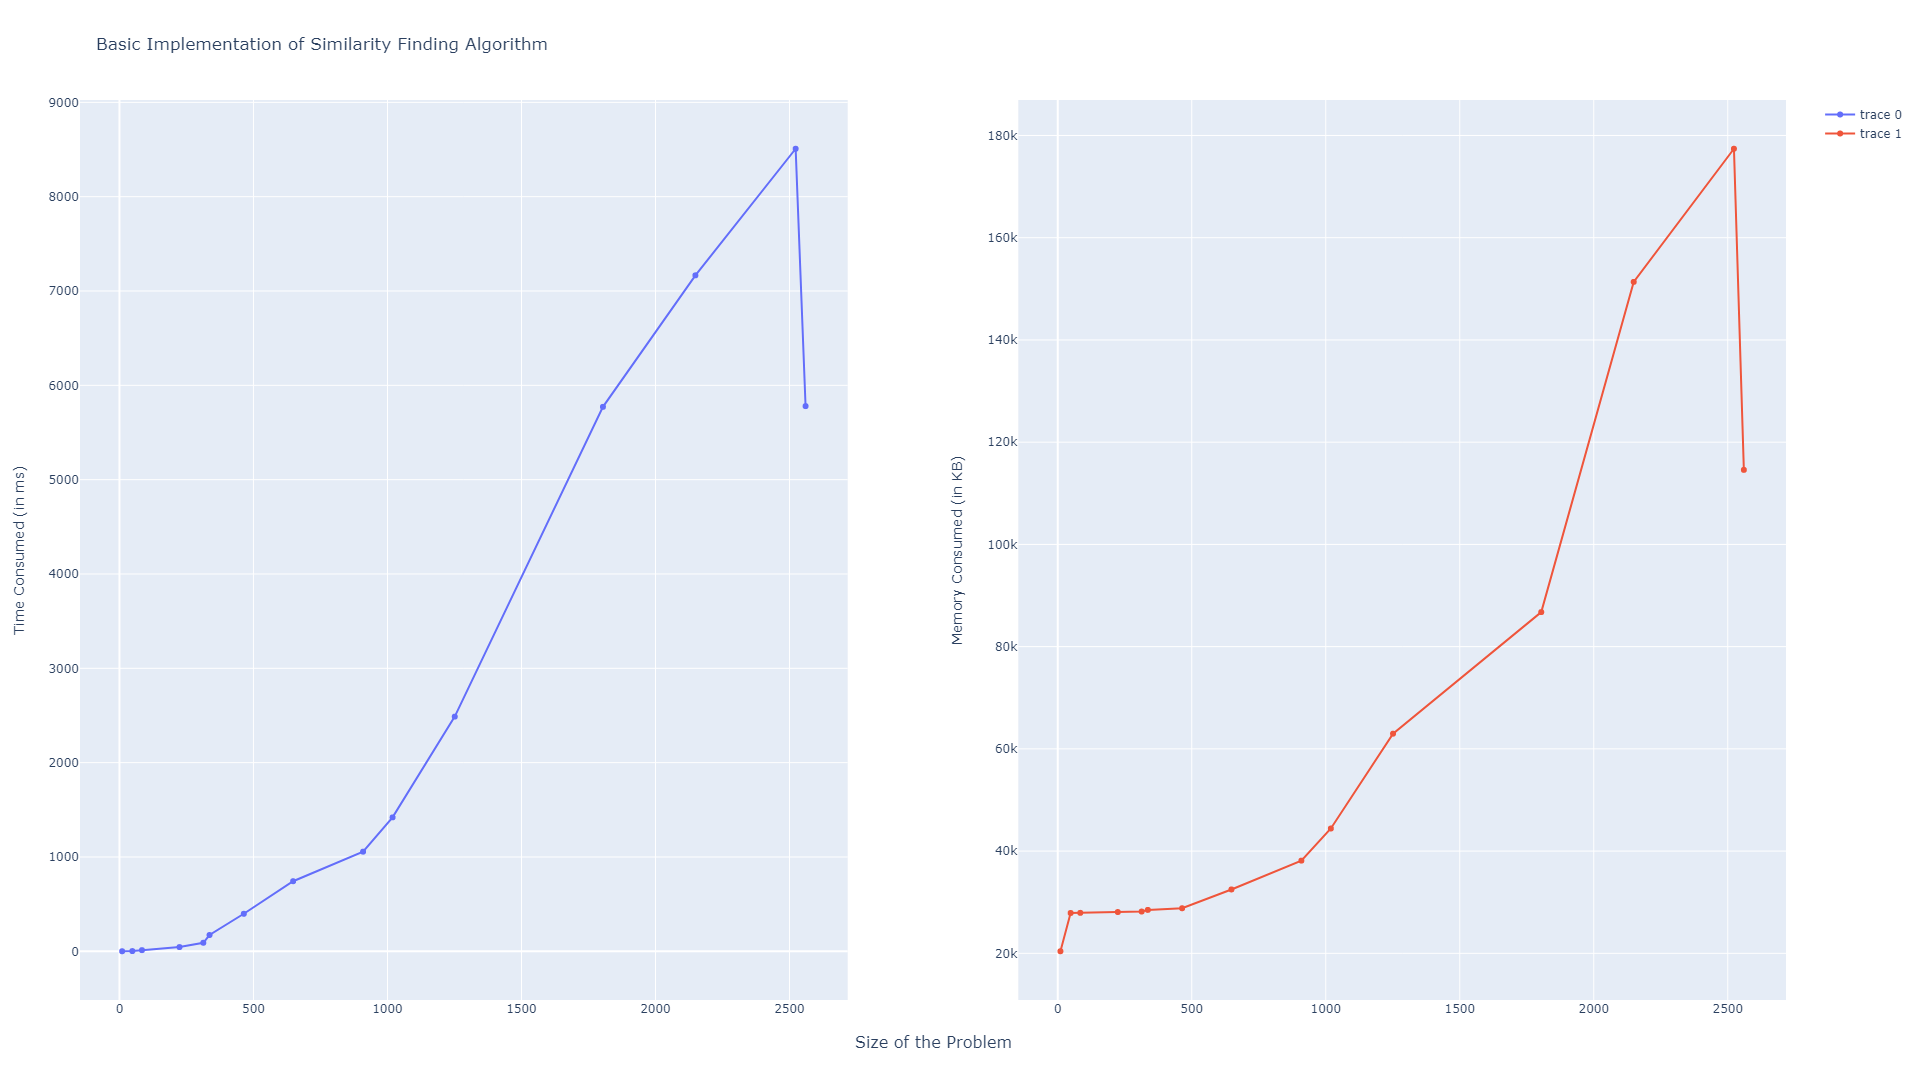
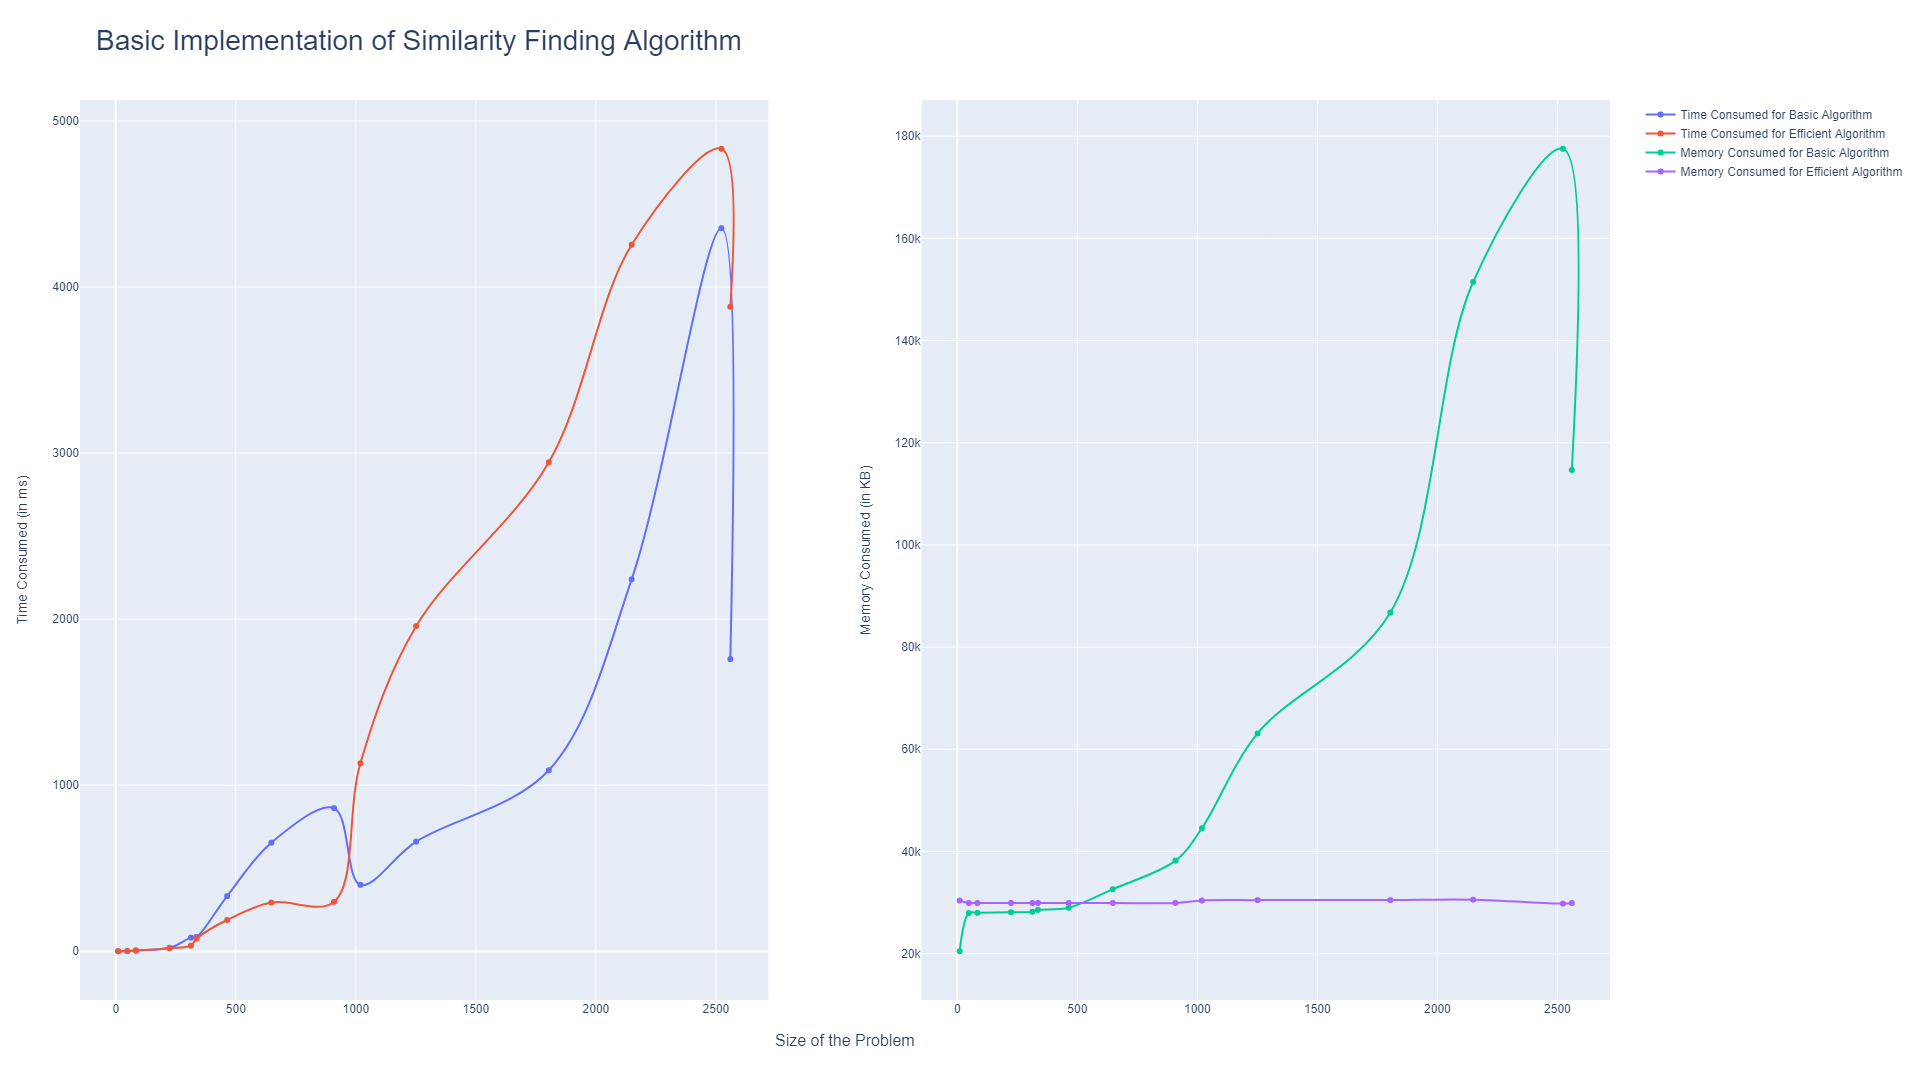
Added efficient algorithm. Added multiple line plots for basic and efficient algorithms.

diff --git a/plotting.py b/plotting.py
@@ -4,34 +4,82 @@ import os.path
 import plotly.graph_objects as go
 from plotly.subplots import make_subplots
 
+import basic
+import efficient
 from util import PlottingData
 
 IMAGE_FOLDER = 'images'
+BENCHMARK = False
 
 
 class Plot:
-    def __init__(self, plotting_data_list):
-        self.problem_sizes = PlottingData.get_all_problem_sizes(plotting_data_list)
-        self.time_consumed = PlottingData.get_all_time_values(plotting_data_list)
-        self.memory_consumed = PlottingData.get_all_memory_consumed(plotting_data_list)
+    def __init__(self, basic_plotting_data_list, efficient_plotting_data_list):
+        self.problem_sizes = PlottingData.get_all_problem_sizes(basic_plotting_data_list)
+        self.basic_time_consumed = PlottingData.get_all_time_values(basic_plotting_data_list)
+        self.basic_memory_consumed = PlottingData.get_all_memory_consumed(basic_plotting_data_list)
+
+        self.efficient_time_consumed = PlottingData.get_all_time_values(efficient_plotting_data_list)
+        self.efficient_memory_consumed = PlottingData.get_all_memory_consumed(efficient_plotting_data_list)
 
     def plot(self, type_of_algorithm='basic'):
         fig = make_subplots(rows=1, cols=2,
                             x_title='Size of the Problem')
 
+        line = {
+            'shape': 'spline',
+            'smoothing': 1.0,
+        }
+
         fig.add_trace(
-            go.Scatter(x=self.problem_sizes, y=self.time_consumed),
+            go.Scatter(x=self.problem_sizes, y=self.basic_time_consumed,
+                       name='Time Consumed for Basic Algorithm',
+                       line=line),
             row=1, col=1
         )
 
         fig.add_trace(
-            go.Scatter(x=self.problem_sizes, y=self.memory_consumed),
+            go.Scatter(x=self.problem_sizes, y=self.efficient_time_consumed,
+                       name='Time Consumed for Efficient Algorithm',
+                       line=line),
+            row=1, col=1
+        )
+
+        fig.add_trace(
+            go.Scatter(x=self.problem_sizes, y=self.basic_memory_consumed,
+                       name='Memory Consumed for Basic Algorithm',
+                       line=line),
+            row=1, col=2
+        )
+
+        fig.add_trace(
+            go.Scatter(x=self.problem_sizes, y=self.efficient_memory_consumed,
+                       name='Memory Consumed for Efficient Algorithm',
+                       line=line),
             row=1, col=2
         )
 
         fig['layout']['yaxis']['title'] = 'Time Consumed (in ms)'
         fig['layout']['yaxis2']['title'] = 'Memory Consumed (in KB)'
 
-        fig.update_layout(height=1080, width=1920, title_text='Basic Implementation of Similarity Finding Algorithm')
+        fig.update_layout(height=1080, width=1920,
+                          title_text='Basic Implementation of Similarity Finding Algorithm',
+                          title_font_size=28,
+                          font_family='Helvetica')
 
         fig.write_image(os.path.join(IMAGE_FOLDER, type_of_algorithm + '.png'))
+
+        fig.show()
+
+
+if __name__ == '__main__':
+    basic_algorithm = basic.Algorithm()
+    efficient_algorithm = efficient.Algorithm()
+
+    basic_algorithm.run(benchmark=BENCHMARK)
+    efficient_algorithm.run(benchmark=BENCHMARK)
+
+    basic_algorithm.sort_plotting_data_with_problem_size()
+    efficient_algorithm.sort_plotting_data_with_problem_size()
+
+    plot = Plot(basic_algorithm.plotting_data_list, efficient_algorithm.plotting_data_list)
+    plot.plot()

diff --git a/efficient.py b/efficient.py
@@ -1,0 +1,65 @@
+import logging
+import time
+
+from ipop import IO
+from util import DELTA, ALPHA, process_memory, PlottingData
+
+LOG_LEVEL = logging.DEBUG
+
+logging.basicConfig(
+    level=LOG_LEVEL
+)
+
+
+class Algorithm:
+    def __init__(self):
+        self.io = IO()
+        self.plotting_data_list = []
+
+    def run(self, benchmark=False):
+        for name, file_path in self.io.generate_input_file_paths():
+            first_gene_string, second_gene_string = self.io.transform_file_content_to_input(file_path)
+            similarity, new_string_1, new_string_2, plotting_data = self.get_similarity(first_gene_string,
+                                                                                        second_gene_string)
+            self.plotting_data_list.append(plotting_data)
+
+            logging.debug(f'Similarity={similarity}')
+            logging.debug(f'Plotting data={plotting_data}')
+
+            if benchmark:
+                break
+
+    def get_similarity(self, first_gene_string, second_gene_string):
+        start_time = time.perf_counter_ns()
+
+        dp = [[0 for _ in range(2)] for _ in range(len(first_gene_string) + 1)]
+
+        for i in range(len(first_gene_string) + 1):
+            dp[i][0] = i * DELTA
+
+        for j in range(1, len(second_gene_string) + 1):
+            dp[0][1] = j * DELTA
+            for i in range(1, len(first_gene_string) + 1):
+                dp[i][1] = min(
+                    ALPHA[frozenset({first_gene_string[i - 1], second_gene_string[j - 1]})] + dp[i - 1][0],
+                    DELTA + dp[i - 1][1],
+                    DELTA + dp[i][0]
+                )
+
+            for i in range(1, len(first_gene_string) + 1):
+                dp[i][0] = dp[i][1]
+
+        end_time = time.perf_counter_ns()
+        memory_consumed = process_memory()
+        time_in_ms = (end_time - start_time) / 10 ** 6
+
+        return dp[len(first_gene_string)][1], None, None, PlottingData(len(first_gene_string), time_in_ms,
+                                                                       memory_consumed)
+
+    def sort_plotting_data_with_problem_size(self):
+        self.plotting_data_list.sort(key=lambda x: x.problem_size)
+
+
+if __name__ == '__main__':
+    algorithm = Algorithm()
+    algorithm.run()

diff --git a/basic.py b/basic.py
@@ -2,10 +2,9 @@ import logging
 import time
 
 from ipop import IO
-from plotting import Plot
 from util import DELTA, ALPHA, process_memory, PlottingData
 
-LOGGING_LEVEL = logging.INFO
+LOGGING_LEVEL = logging.DEBUG
 
 logging.basicConfig(
     level=LOGGING_LEVEL
@@ -105,6 +104,3 @@ class Algorithm:
 if __name__ == '__main__':
     algorithm = Algorithm()
     algorithm.run()
-    algorithm.sort_plotting_data_with_problem_size()
-    plot = Plot(algorithm.plotting_data_list)
-    plot.plot()
